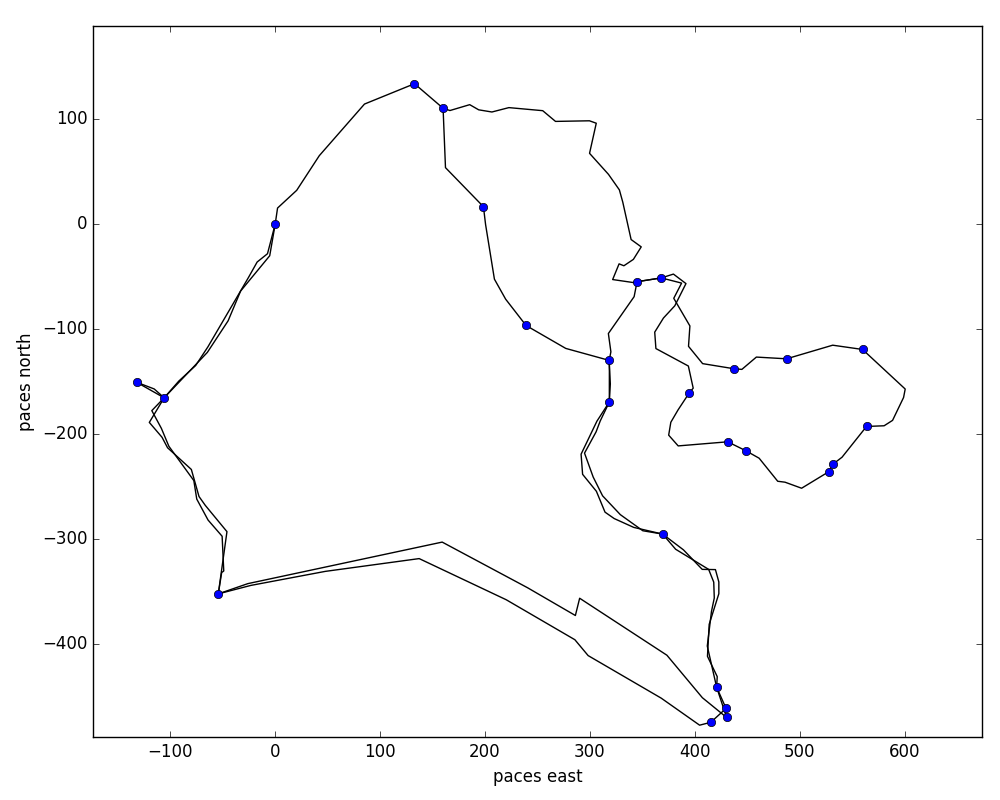
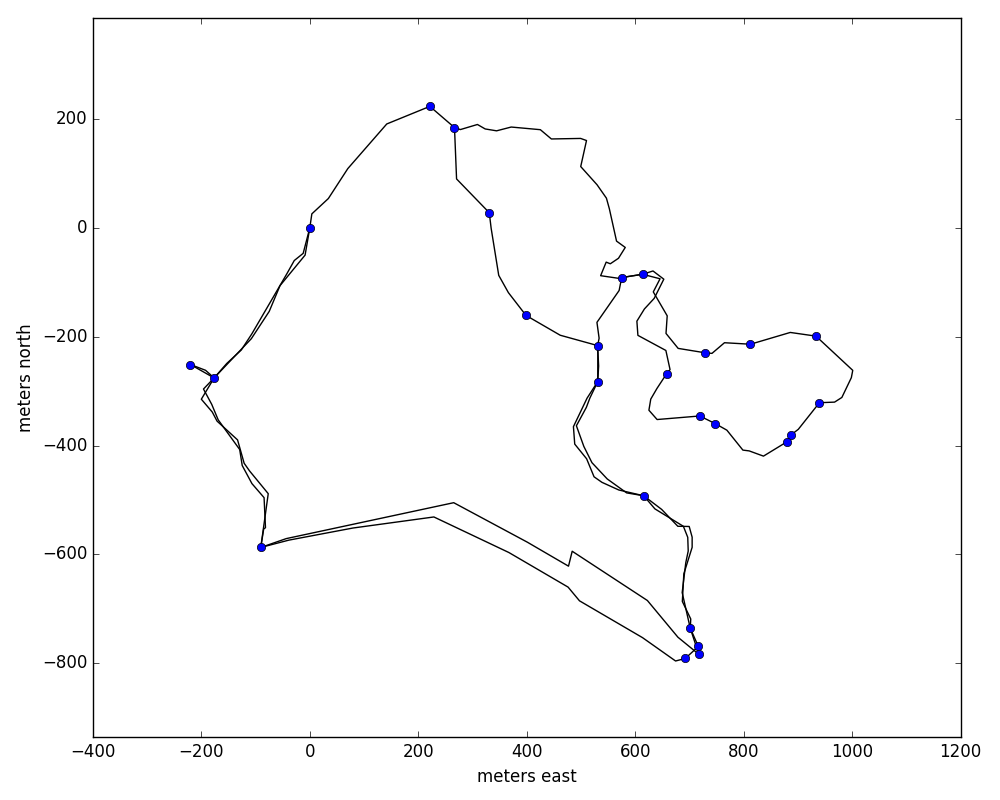
Adding keywords.

diff --git a/hiking.py b/hiking.py
@@ -62,13 +62,13 @@ def correct_the_path(numpy_east, east1, east2):
     return numpy_east
 
 
-def rotate_declination(east, north, declination=-11):
+def rotate_declination(east, north, declination=-11, scale=1):
     c = np.cos(declination*np.pi/180) 
     s = np.sin(declination*np.pi/180) 
     mat = np.array([[c,  s], 
                     [-s, c]])
     both = np.dot(mat, np.vstack((np.array(east), np.array(north))))
-    return both[0,:], both[1,:]
+    return both[0,:]*scale, both[1,:]*scale
 
 
 def foo():
@@ -76,8 +76,13 @@ def foo():
         lines = f.readlines()
         f.close()
 
-    declination = -11
-    #declination = 0
+    # Default to 0 degrees declination.
+    #declination = -11
+    declination = 0
+
+    # Default to a pace count of 60 paces per 100 meters
+    paces_per_100meters = 60.0
+
     label = 'start'
     locations = [(0,0)]
     checkpoints = []
@@ -87,12 +92,22 @@ def foo():
     offsets = {}
 
     for line in lines:
+        if re.search('^PACES_PER_100METERS', line):
+            paces_per_100meters = float(line.split()[1])
+            continue
+
+        if re.search('^MAGNETIC_DECLINATION', line):
+            declination = float(line.split()[1])
+            continue
+
         if re.search('^#', line):
             continue
 
         if re.search('^@', line):
             old_label = copy.copy(label)
-            label = line[1:].strip()
+            # label is everything after the @ sign and before the first
+            # whitespace
+            label = line[1:].split()[0].strip()
             #print label
             checkpoints.append(locations[-1])
 
@@ -148,16 +163,19 @@ def foo():
     #north = [x[1] for x in checkpoints]
     #mpl.plot(east, north, 'ob')
 
+    # Convert paces to meters by multiplying by scale.
+    scale = 100.0 / paces_per_100meters
+
     for pair in pairs:
         east = (new_locs[pair[0]][0], new_locs[pair[1]][0])
         north = (new_locs[pair[0]][1], new_locs[pair[1]][1])
         #mpl.plot(east, north, '-y')
 
-        east, north = rotate_declination(east, north, declination=declination)
+        east, north = rotate_declination(east, north, declination=declination, scale=scale)
 
         off_east = offsets[pair][2]
         off_north = offsets[pair][3]
-        off_east, off_north = rotate_declination(off_east, off_north, declination=declination)
+        off_east, off_north = rotate_declination(off_east, off_north, declination=declination, scale=scale)
 
         eastings = correct_the_path(off_east, east[0], east[1])
         northings = correct_the_path(off_north, north[0], north[1])
@@ -165,12 +183,15 @@ def foo():
 
     east = [new_locs[x][0] for x in new_locs]
     north = [new_locs[x][1] for x in new_locs]
-    east, north = rotate_declination(east, north, declination=declination)
+    east, north = rotate_declination(east, north, declination=declination, scale=scale)
     mpl.plot(east, north, 'ob')
-    mpl.xlabel('paces east')
-    mpl.ylabel('paces north')
+    mpl.xlabel('meters east')
+    mpl.ylabel('meters north')
 
     mpl.axis('equal')
+
+    mpl.ylim([-800, 250])  # autoscaling wasn't working right
+
     mpl.tight_layout()
     #mpl.savefig('test_no_declination.png', transparent=True)
     mpl.savefig('test_declination.png', transparent=True)

diff --git a/README.md b/README.md
@@ -27,9 +27,9 @@ The resulting map can look something like this:
 
 ## To Do
 - [ ] Include better error bars (fractional error on pace counts)
-- [ ] Let magnetic declination be read in as a keyword
-- [ ] Let pace count (paces per 100 meters) be read in as a keyword
-- [ ] Let decimal latitude and longitude to be added to a waypoint, if known
+- [x] Let magnetic declination be read in as a keyword
+- [x] Let pace count (paces per 100 meters) be read in as a keyword
+- [x] Let decimal latitude and longitude to be added to a waypoint, if known
 - [ ] Use a spherical Earth model to give lat/lon values to all points
 - [ ] If multiple waypoints have lat/lon values, use those in the fitting process. 
 - [ ] Output result in gpx format, for input into www.openorienteering.org
